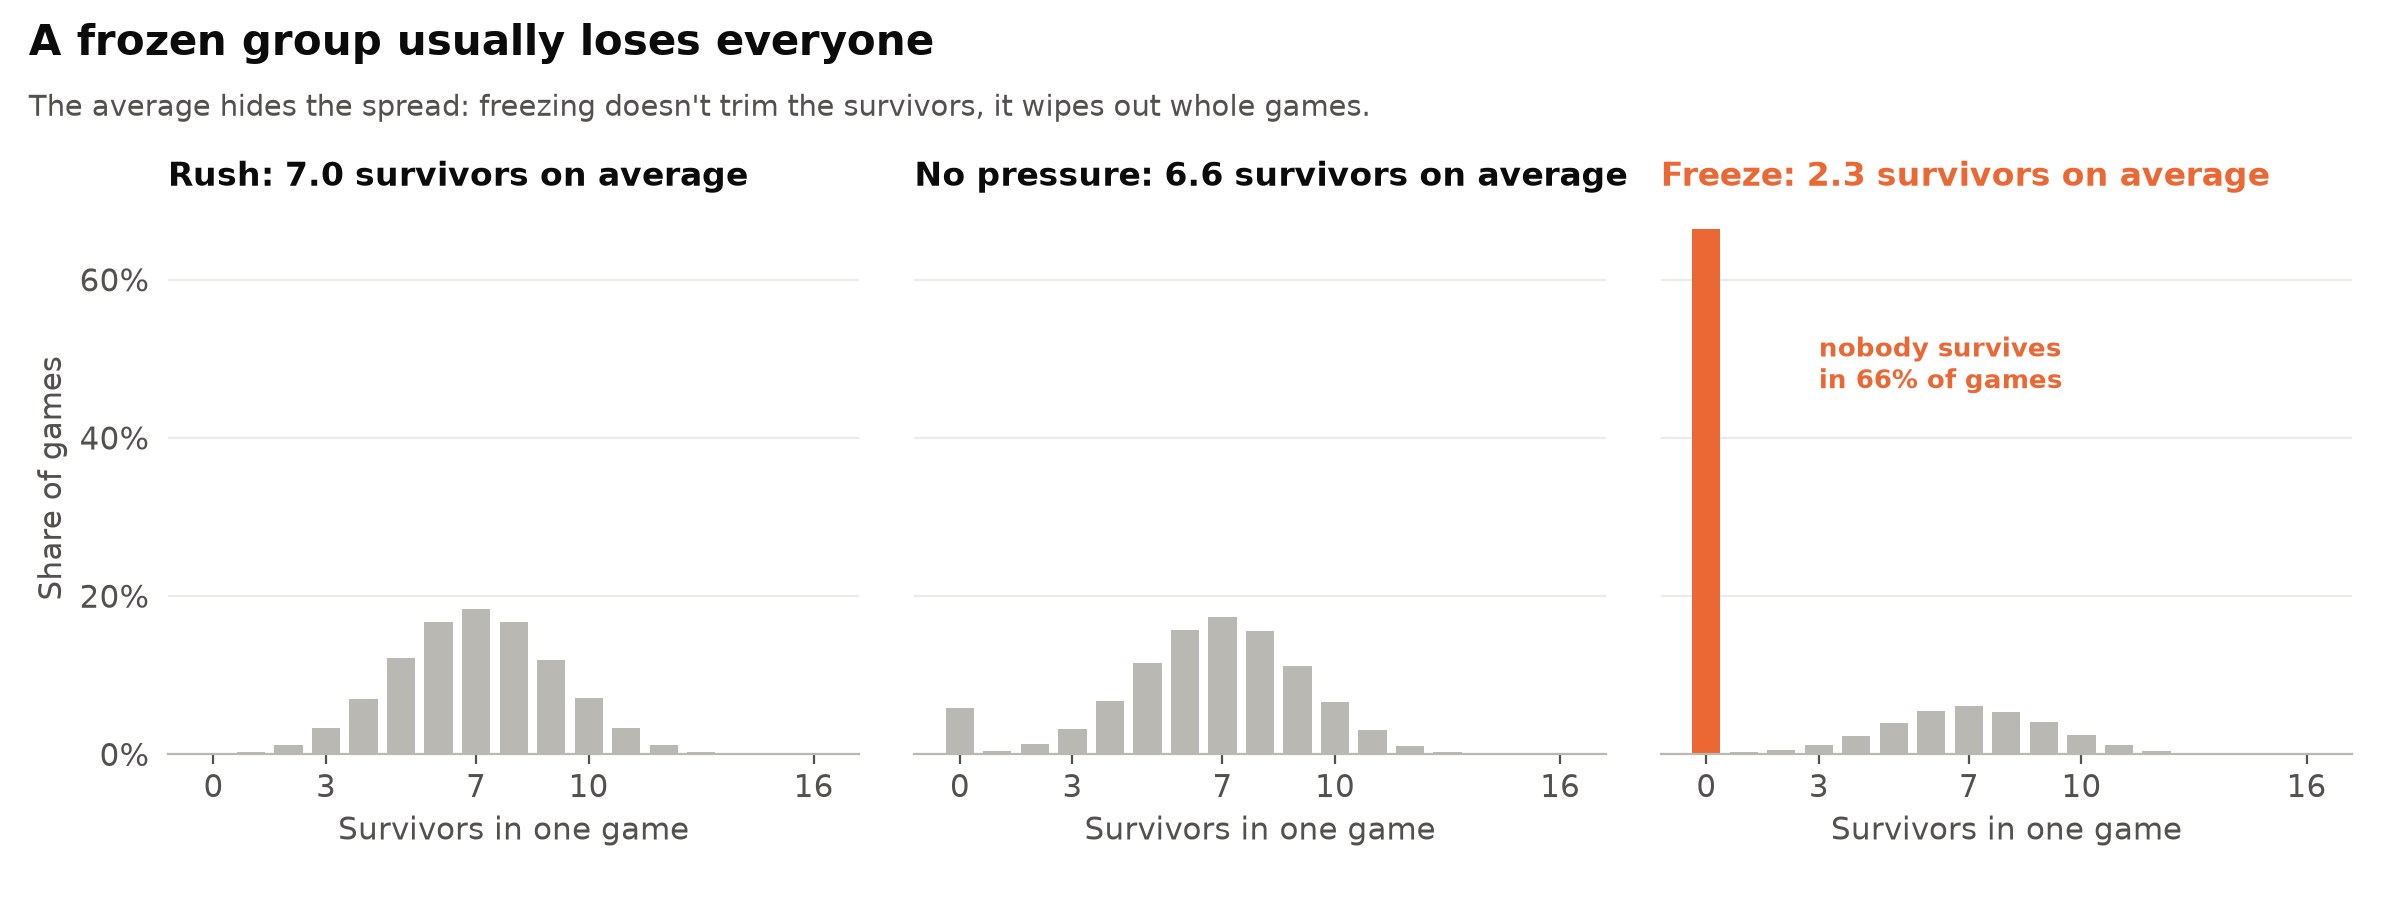
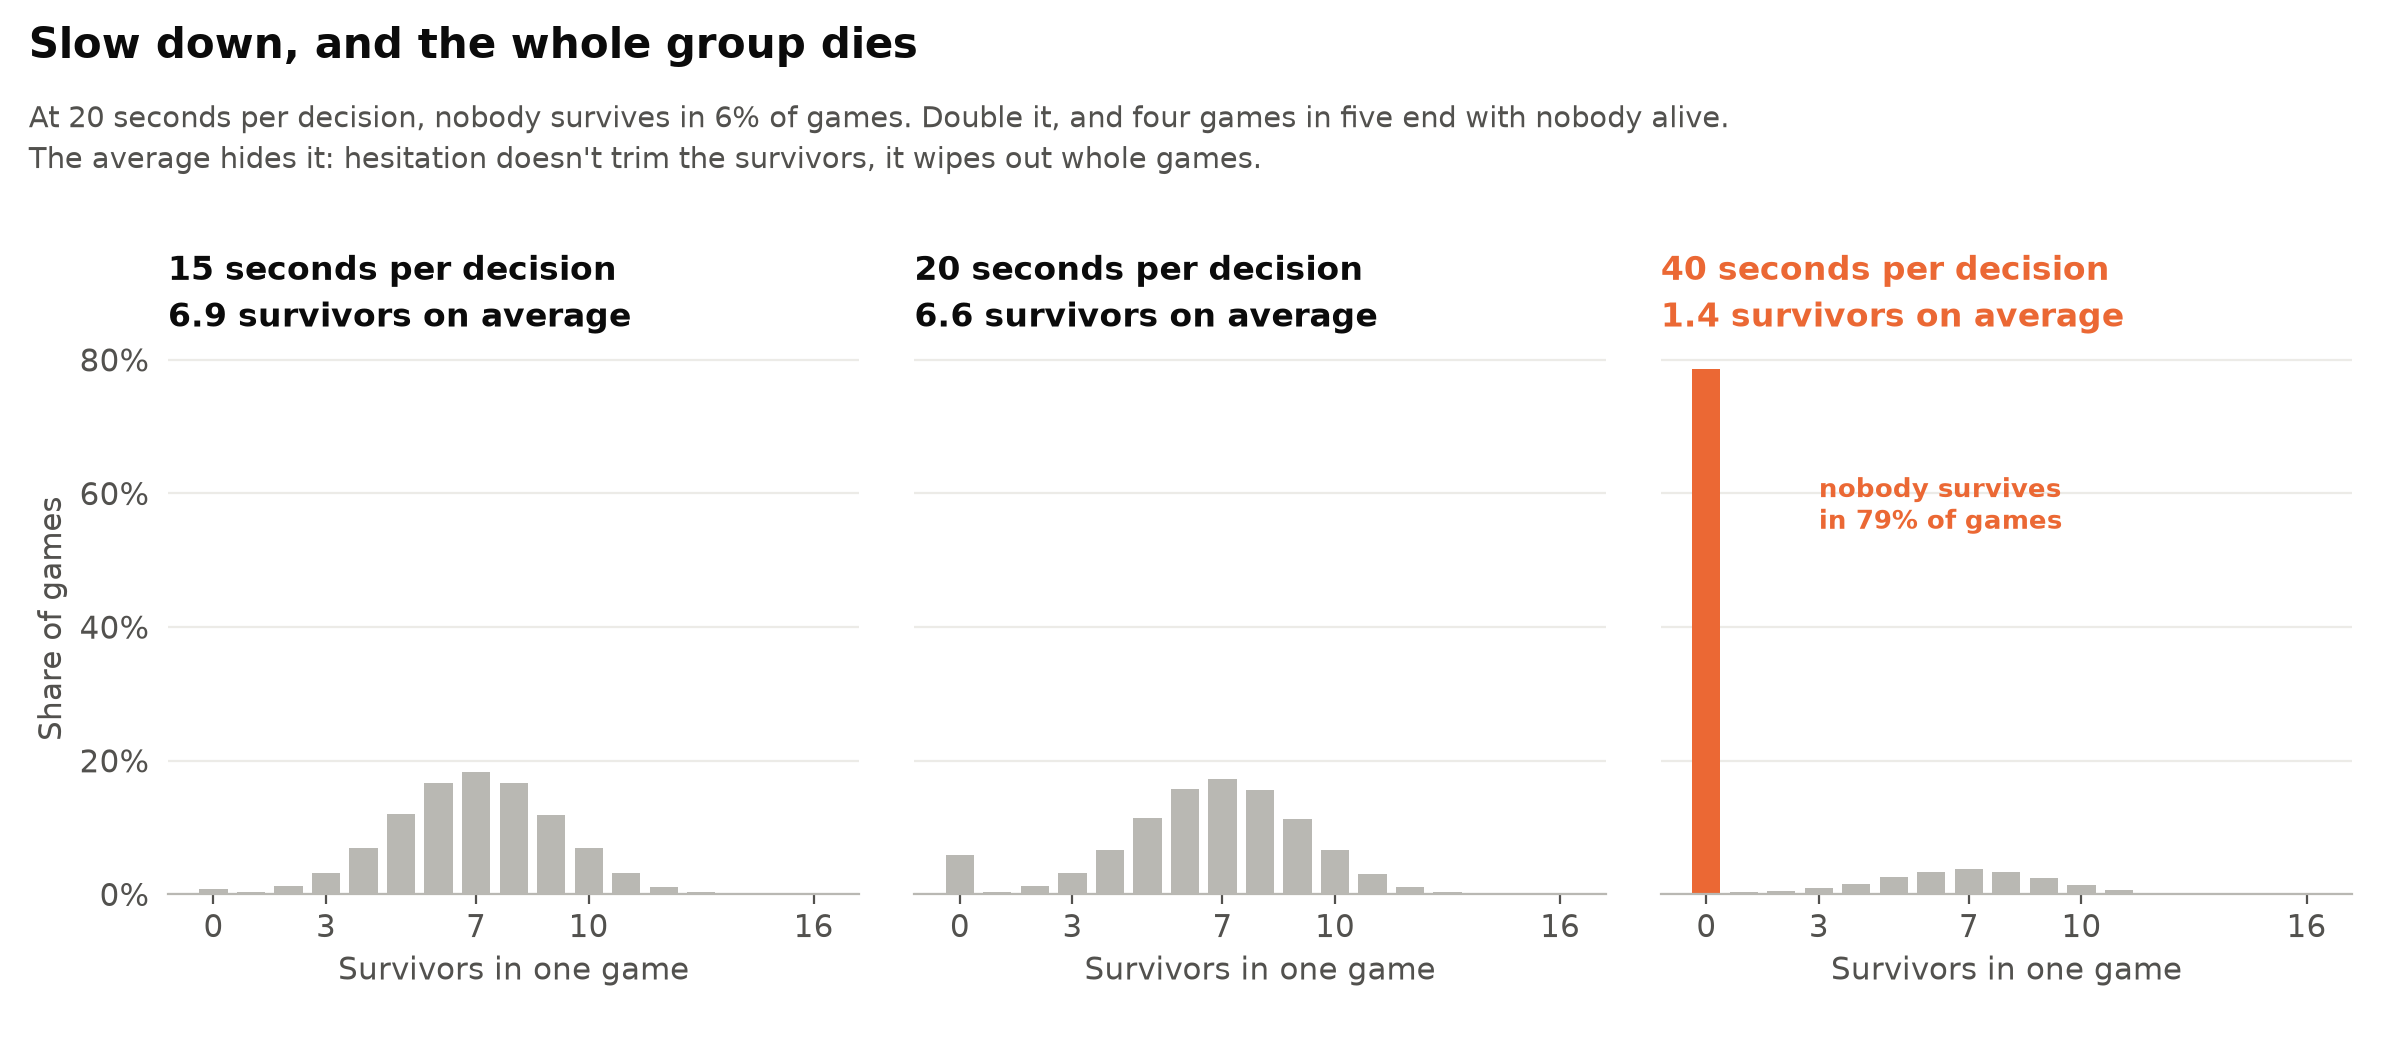
Fig 6 rebuilt from E9 (constant hesitation: 15/20/40 s) for Article 1; pressure version kept as fig 6b

diff --git a/src/glass_bridge/figures.py b/src/glass_bridge/figures.py
@@ -300,6 +300,37 @@ def fig_clock(results: Path):
     return fig
 
 
+def fig_distribution_hesitation(results: Path):
+    """Article 1 version (D19): one model of hesitation, constant all game (E9), at the show's clock."""
+    rows = load("E9_clock_x_decision_time", results)
+    k = np.arange(N_PLAYERS + 1)
+    delays = (15, 20, 40)
+    fig, axes = plt.subplots(1, 3, figsize=(12, 5.2), sharey=True)
+    for ax, d in zip(axes, delays):
+        r = one(rows, d0=float(d), clock=SHOW_CLOCK)
+        p = np.array([r[f"p_{i}_survivors"] for i in k]) * 100
+        slow = d == delays[-1]
+        ax.bar(k, p, width=0.75, color=[ORANGE if (slow and i == 0) else GRAY_LIGHT for i in k])
+        ax.set_title(f"{d} seconds per decision\n{r['mean_survivors']:.1f} survivors on average", loc="left",
+                     color=ORANGE if slow else INK, linespacing=1.4)
+        ax.set_xticks([0, 3, 7, 10, 16])
+        ax.set_xlabel("Survivors in one game")
+        if slow:
+            ax.annotate(f"nobody survives\nin {p[0]:.0f}% of games", (0.5, p[0] * 0.95), xytext=(3, p[0] * 0.8),
+                        fontsize=9.5, color=ORANGE, fontweight="bold", va="top")
+    axes[0].set_yticks([0, 20, 40, 60, 80], ["0%", "20%", "40%", "60%", "80%"])
+    axes[0].set_ylabel("Share of games")
+    r20 = one(rows, d0=20.0, clock=SHOW_CLOCK)
+    headline(fig, "Slow down, and the whole group dies",
+             f"At 20 seconds per decision, nobody survives in {r20['p_0_survivors']:.0%} of games. Double it, and "
+             "four games in five end with nobody alive.\nThe average hides it: hesitation doesn't trim the survivors, "
+             "it wipes out whole games.",
+             "16-minute clock, no pushers; the leader's typical (median) decision time stays the same all game. "
+             "100,000 games each. Results: E9_clock_x_decision_time.csv")
+    fig.subplots_adjust(left=0.07, right=0.98, bottom=0.14, top=0.67, wspace=0.08)
+    return fig
+
+
 def fig_distribution(results: Path):
     rows = load("E3_clock", results)
     k = np.arange(N_PLAYERS + 1)
@@ -430,7 +461,8 @@ FIGURES = {
     "fig3_breakeven": fig_breakeven,
     "fig4_pusher_gain": fig_pusher_gain,
     "fig5_clock": fig_clock,
-    "fig6_distribution": fig_distribution,
+    "fig6_distribution": fig_distribution_hesitation,
+    "fig6b_distribution_pressure": fig_distribution,
     "fig7_hesitation_dial": fig_hesitation_dial,
     "fig2_3_pushers_and_breakeven": fig_pushers_and_breakeven,
     "fig8_wipeout_map": fig_wipeout_map,

diff --git a/figures/SOURCES.md b/figures/SOURCES.md
@@ -7,7 +7,8 @@ Generated by `python -m glass_bridge.figures` from `results/`. Data sources and 
 - **fig3_breakeven.png**: When does pushing pay off?. Change in mean survivors vs no pushers; 100,000 games per cell, same bridges in every cell. Results: E1_pushers.csv
 - **fig4_pusher_gain.png**: Pushing doesn't save the pusher. Half of pushes reveal the next pane. 100,000 games per point. Results: E1_pushers.csv
 - **fig5_clock.png**: The clock only kills those who hesitate. 100,000 games per point. With pushers, half of pushes reveal a pane; pushing from minute 7. Results: E3_clock.csv
-- **fig6_distribution.png**: A frozen group usually loses everyone. 16-minute clock, no pushers. 100,000 games each. Results: E3_clock.csv
+- **fig6_distribution.png**: Slow down, and the whole group dies. 16-minute clock, no pushers; the leader's typical (median) decision time stays the same all game. 100,000 games each. Results: E9_clock_x_decision_time.csv
+- **fig6b_distribution_pressure.png**: A frozen group usually loses everyone. 16-minute clock, no pushers. 100,000 games each. Results: E3_clock.csv
 - **fig7_hesitation_dial.png**: Every second of hesitation costs lives. Median decision time grows (or shrinks) as the clock runs. 100,000 games per point; pushing from minute 7. Results: E7_hesitation_dial.csv
 - **fig2_3_pushers_and_breakeven.png**: Hesitating costs more lives than pushing. 100,000 games per point or cell; 16-minute clock, pushing from minute 7; same bridges throughout. "Per pusher" = slope of the line. Results: E1_pushers.csv
 - **fig8_wipeout_map.png**: Twenty extra seconds of doubt turn a crossing into a massacre. No pushers; the same typical decision time all game. 100,000 games per cell. Results: E9_clock_x_decision_time.csv
